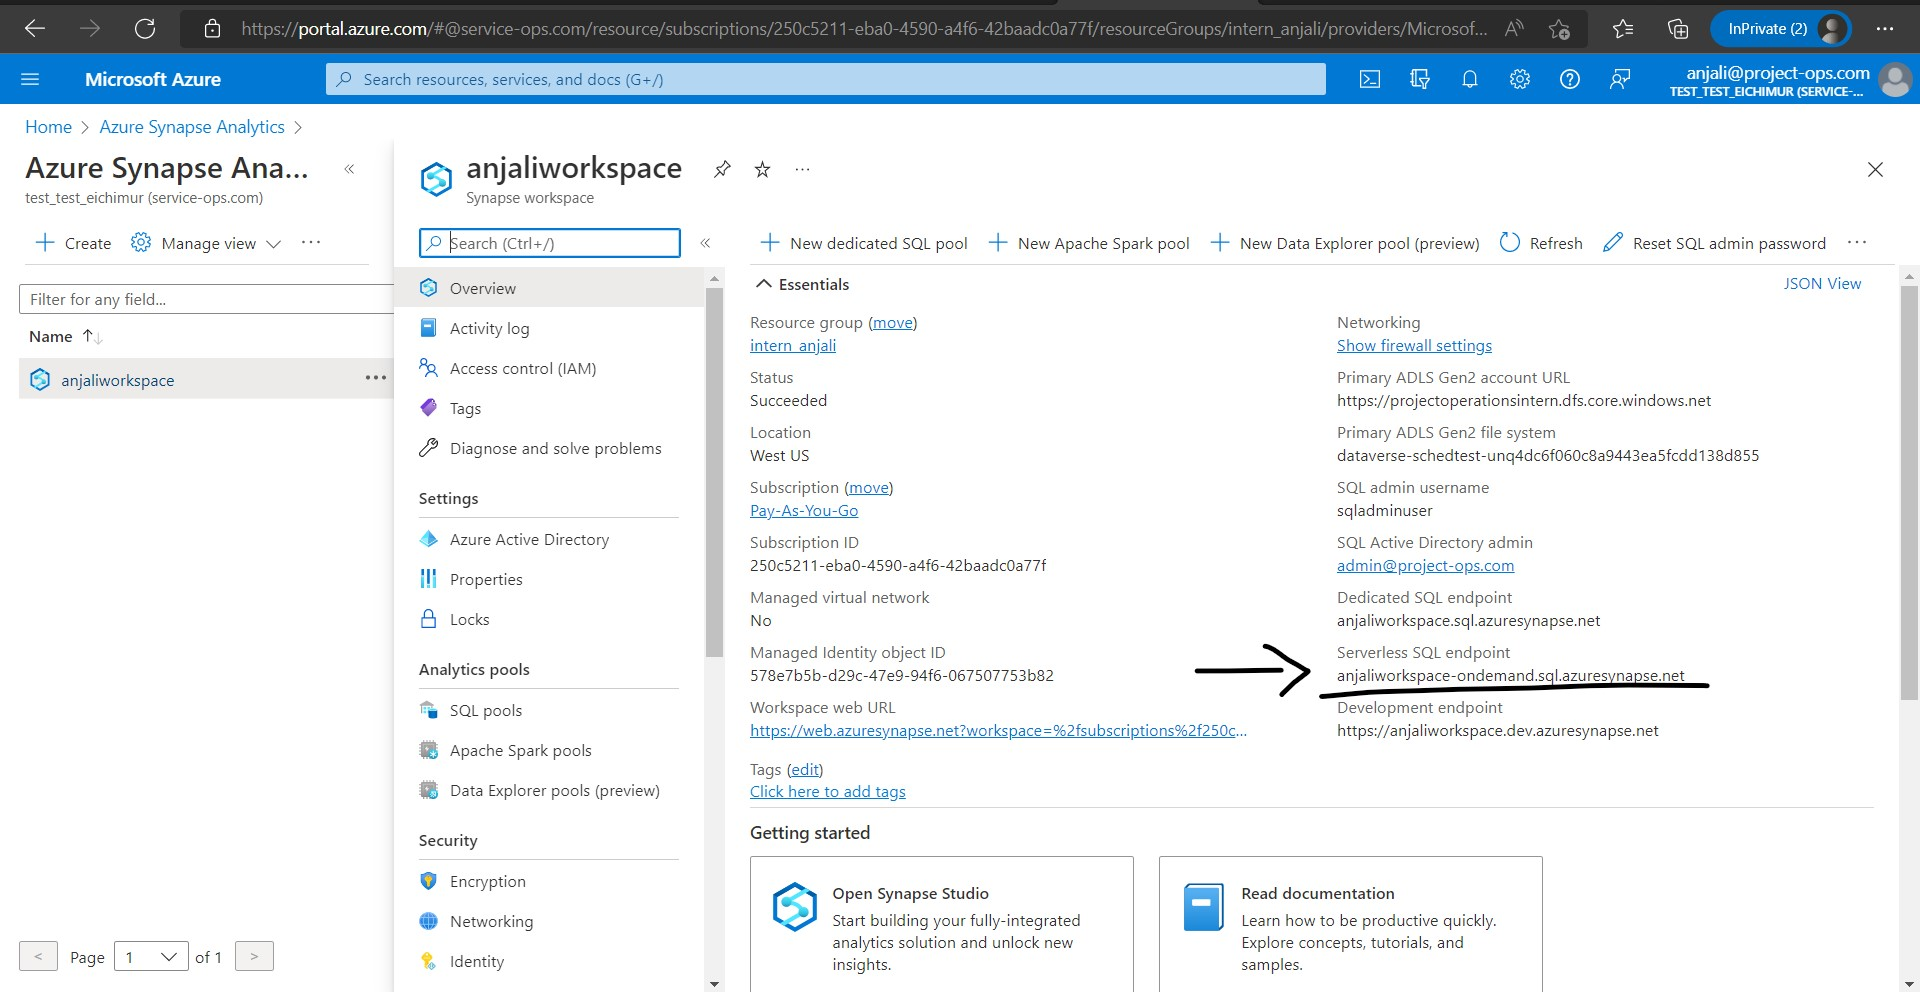
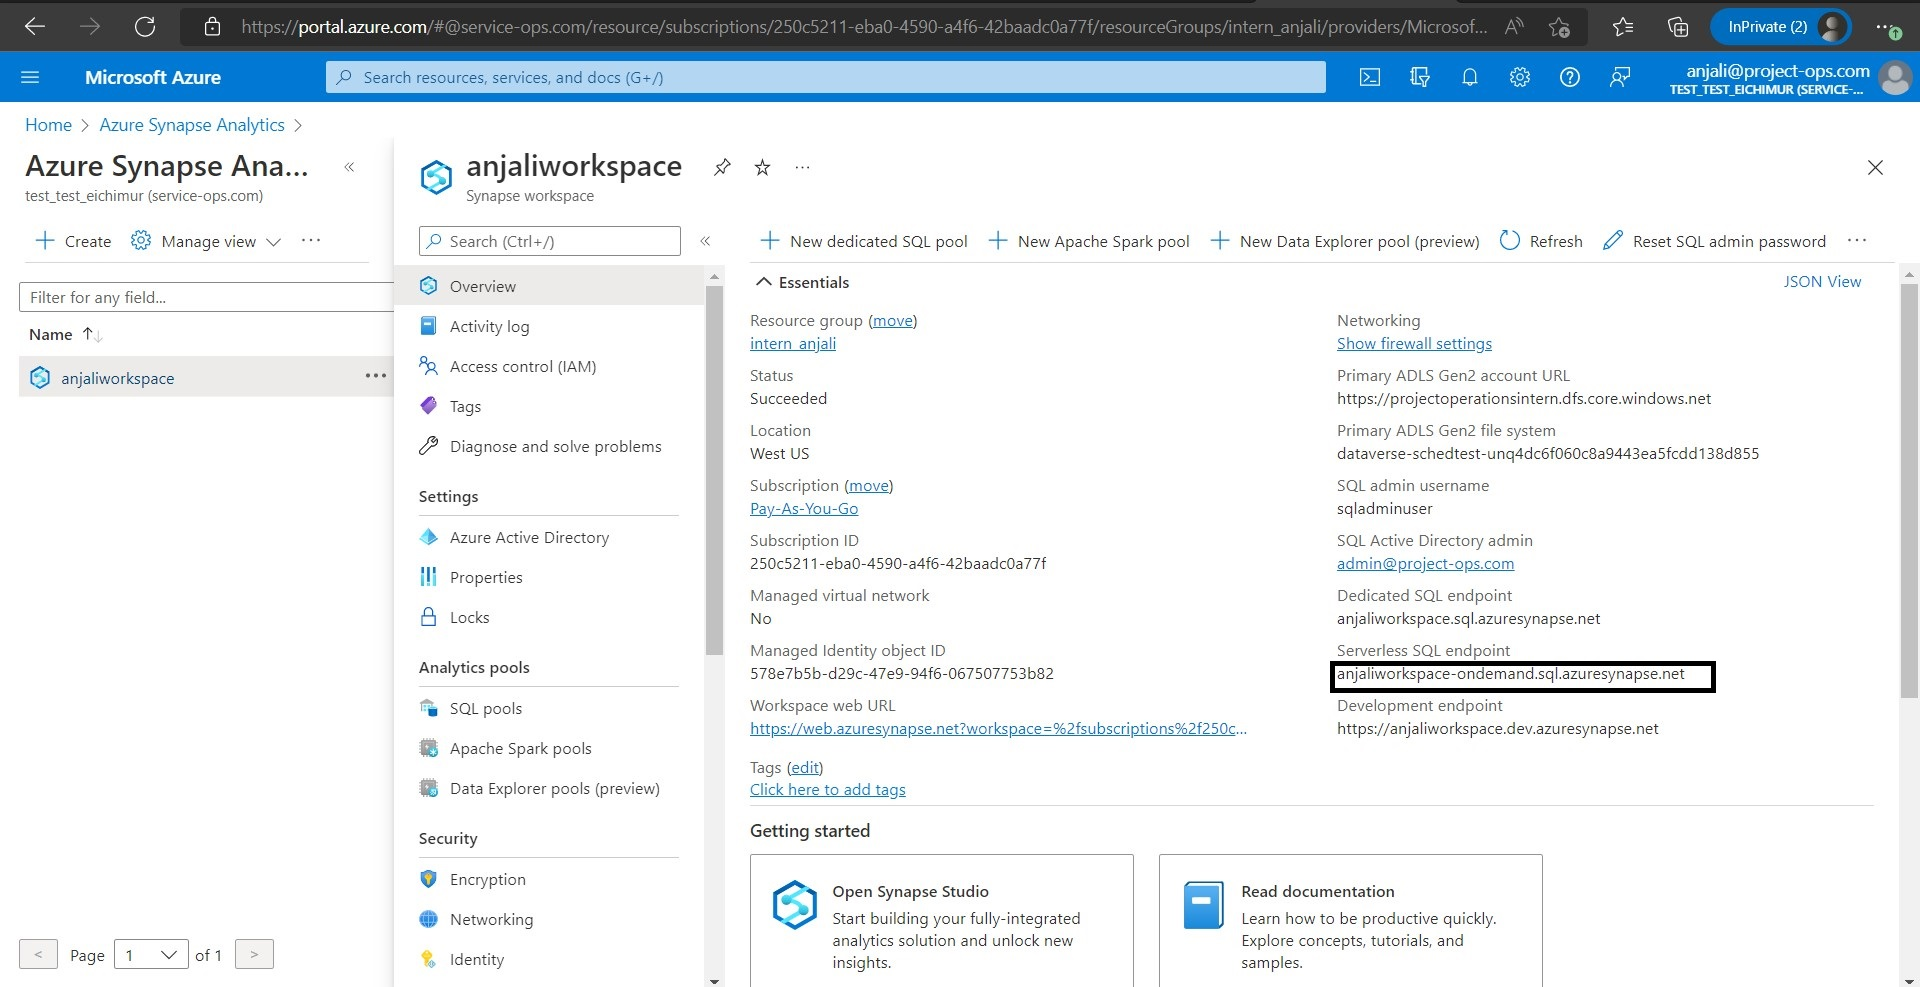
settings2 details added

diff --git a/Project-Operations-Dashboard/README.md b/Project-Operations-Dashboard/README.md
@@ -60,7 +60,7 @@ The data flow from Microsoft Dataverse to ADLS is automatated. There are few ste
 
 * Under components that is on left side, under the entities the table that was not visible during creation of Azure Synapse Link, now enable the "Change Tracking" option.
 
-![Change Tracking option](../images/change-tracking.jpg)
+![Change Tracking option](../images/change-tracking-option.jpg.jpg)
 
 * Now save and publish the changes through the upper ribbon on the plaform.
 
@@ -83,12 +83,9 @@ To start with, when we will run these scripts views will be generated. We will r
 
 1) Download the Power BI report from [here](../Project-Operations-Dashboard/Project%20Operations%20Dashboard.pbix)
 2) Connect it with your Data source by selecting "Get Data" option.
-
- ![Get Data](../images/get-data.jpg)
-
 3) Choose the SQL server option.
 
-![SQL Server](../images/SQL-server.jpg)
+![Get Data](../images/get-data.jpg)
 
 4) Now enter the Server by copying Serverless SQL Endpoint Link from Synapse Workspace.
 
